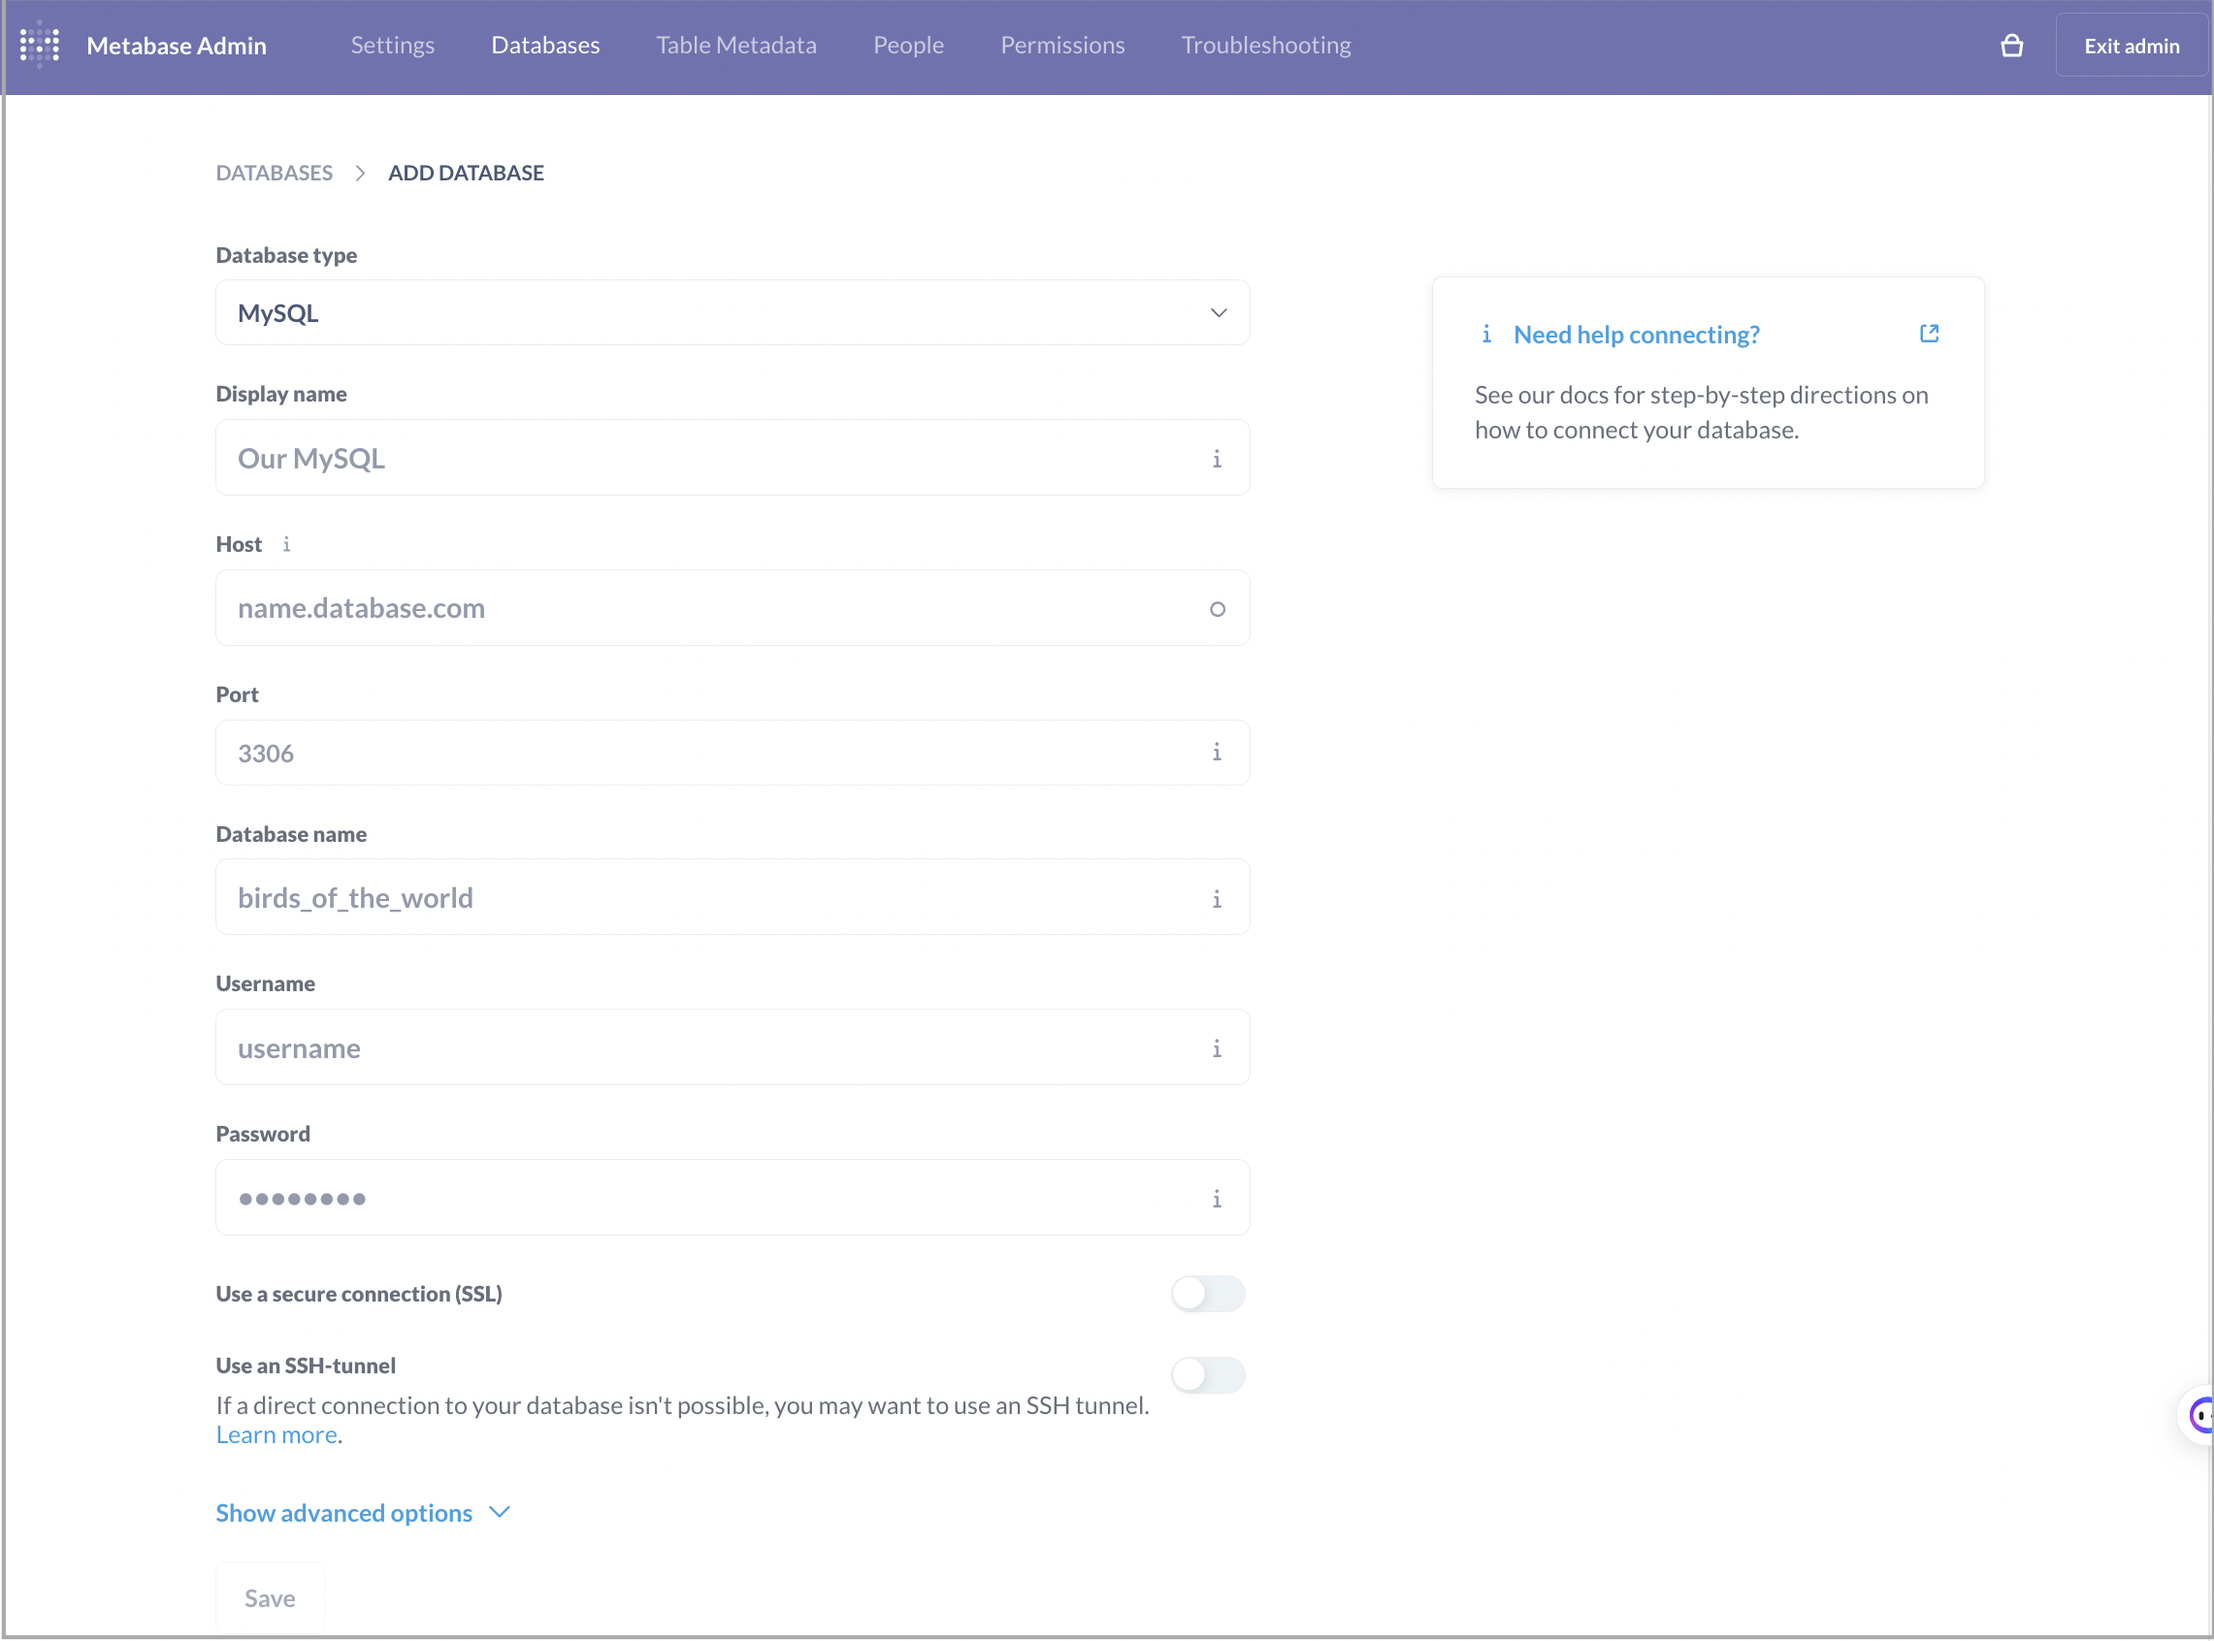
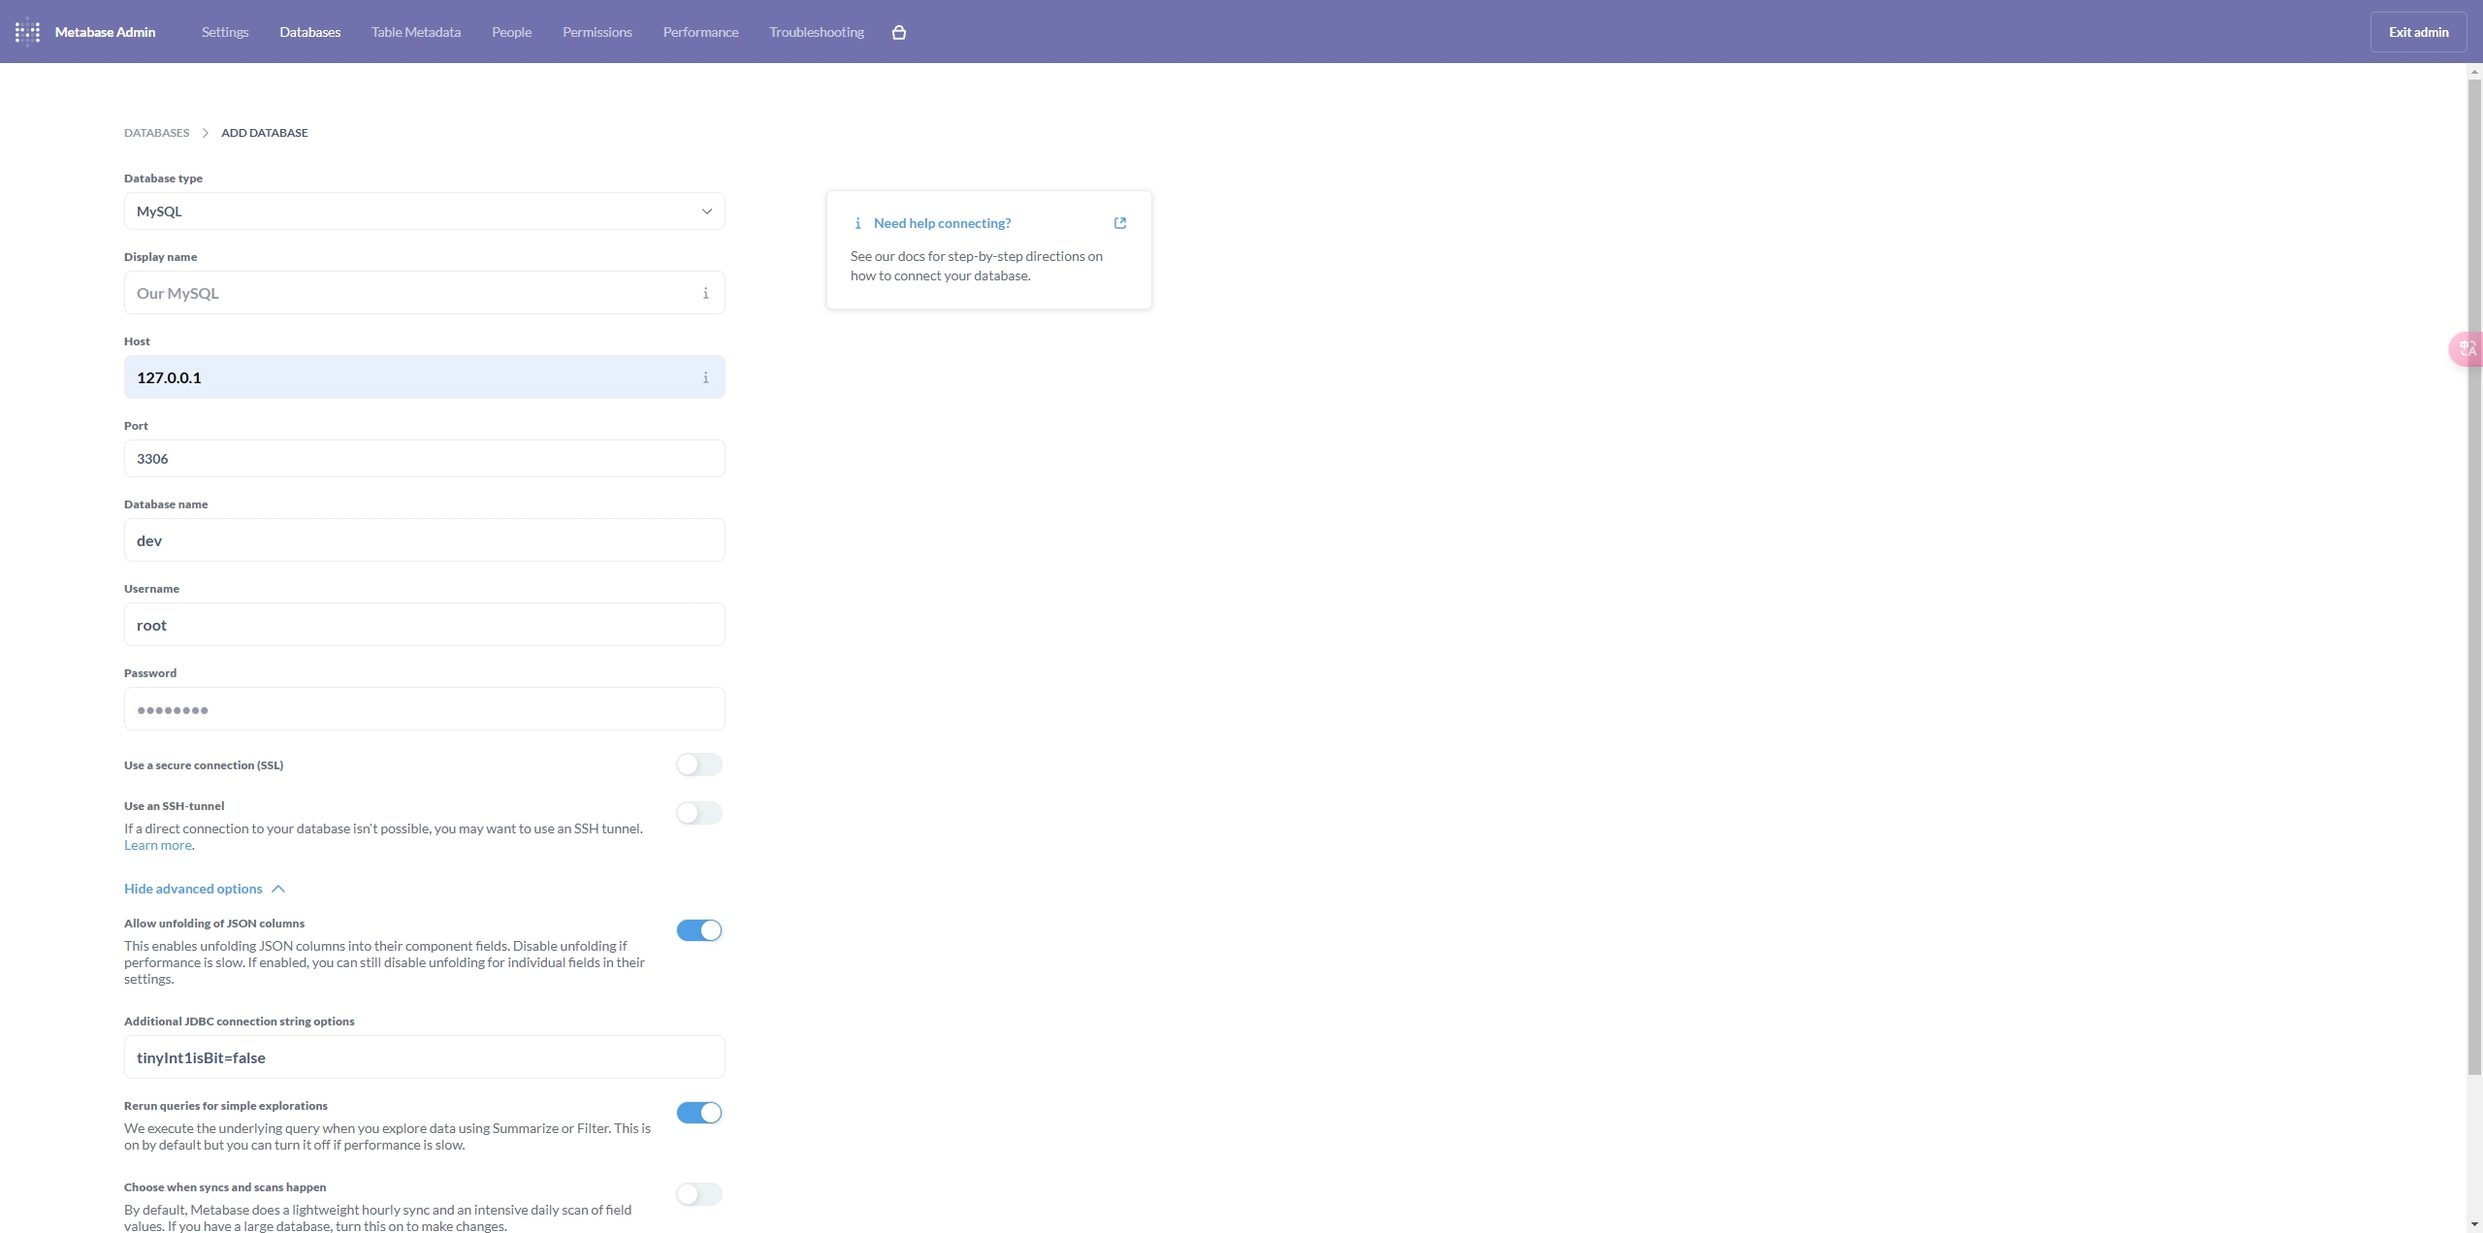
[Doc] update Metabase connect docs (#54754)

diff --git a/docs/en/integrations/BI_integrations/Metabase.md b/docs/en/integrations/BI_integrations/Metabase.md
@@ -24,6 +24,7 @@ Start Metabase and do as follows:
    - **Host** and **Port**: Enter the host and port information appropriate for your use case.
    - **Database name**: Enter a database name in the `<catalog_name>.<database_name>` format. In StarRocks versions earlier than v3.2, you can integrate only the internal catalog of your StarRocks cluster with Metabase. From StarRocks v3.2 onwards, you can integrate both the internal catalog and external catalogs of your StarRocks cluster with Metabase.
    - **Username** and **Password**: Enter the username and password of your StarRocks cluster user.
+   - **Additional JDBC connection string options**: You must add the property `tinyInt1isBit=false` in this field. Otherwise, there may be an error.
 
    The other parameters do not involve StarRocks. Configure them based on your business needs.
 

diff --git a/docs/zh/integrations/BI_integrations/Metabase.md b/docs/zh/integrations/BI_integrations/Metabase.md
@@ -26,6 +26,7 @@ Metabase 支持对 StarRocks 中的内部数据和外部数据进行查询和可
    - **Host** 和 **Port**: 根据使用场景输入主机和端口信息。
    - **Database name**：按照 `<catalog_name>.<database_name>` 格式输入数据库名称。在 3.2 版本以前，StarRocks 只支持 Internal Catalog 与 Metabase 的集成。自 3.2 版本起，StarRocks 支持 Internal Catalog 和 External Catalog 与 Metabase 的集成。
    - **Username** 和 **Password**：输入 StarRocks 集群用户的用户名和密码。
+   - **Additional JDBC connection string options**: 必须在该字段中添加属性 `tinyInt1isBit=false`，否则会导致无法正常使用。
 
    其他参数与 StarRocks 无关，您可以根据实际需要填写。
 
